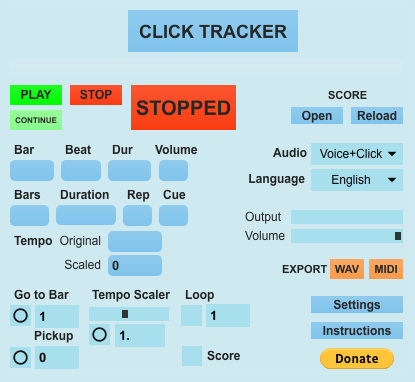
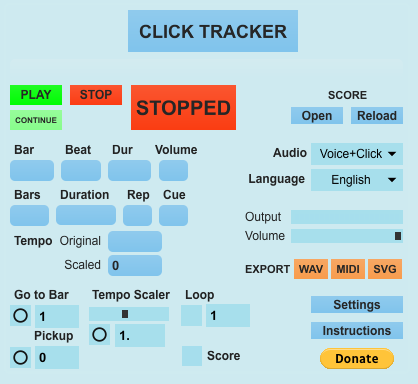
svg update

diff --git a/index.html b/index.html
@@ -471,6 +471,7 @@ The Click Tracker's GUI offers the following possibilities (keyboard shortcuts a
 <strong>Open score / reload score</strong> &ndash; Open a score file or reload one (in case the file was edited). In the application or in the Max patch a file can also be dropped over the window.<br>
 <strong>Export WAV</strong> &ndash; Exports an audio file of the score, according to the current playback settings.<br>
 <strong>Export MIDI</strong> &ndash; Exports a midi file of the score (see <a href="#midiexport">below</a href> for more details).<br>
+<strong>Export SVG</strong> &ndash; Exports an svg graphic of the score, as seen in the score structure display.<br>
 <!-- <strong>Record</strong> &ndash; Play the score and record it at the same time.<br>
 <strong>Set file</strong> &ndash; Before you record a click track say where it's going to be recorded and with which name. In case you forget this the program will record it with the same name and place as the score file. You only have to write the name of the file. The file extension .wav will be added by the program.<br> -->
 <br>
@@ -652,7 +653,7 @@ If you use <a href="https://notepad-plus-plus.org/">Notepad++</a> for Windows, y
 </p>
 
 <p>For more informations/requests <a href="mailto:clicktracker@posteo.org?subject=Click%20Tracker%20questions">contact me</a>.</p>
-<p><strong>&copy; João Pais 04.03.2022</strong></p>
+<p><strong>&copy; João Pais 03.08.2022</strong></p>
 
     </div>
     <!--[if !IE]><script>fixScale(document);</script><![endif]-->

diff --git a/index-library.html b/index-library.html
@@ -392,6 +392,13 @@ The mp3 format is ready to use, but it's advised that you download the txt file 
 <td><a href="library/Norgard_Bach to the future-mp3.zip">mp3</a></td>
 </tr>
 <tr>
+<td>Nunes, Emmanuel</td>
+<td>Quodlibet</td>
+<td> </td>
+<td><a href="library/Nunes_Quodlibet.zip">txt</a></td>
+<td></td>
+</tr>
+<tr>
 <td>Poppe, Enno</td>
 <td>17 Etüden for flute</td>
 <td> </td>
